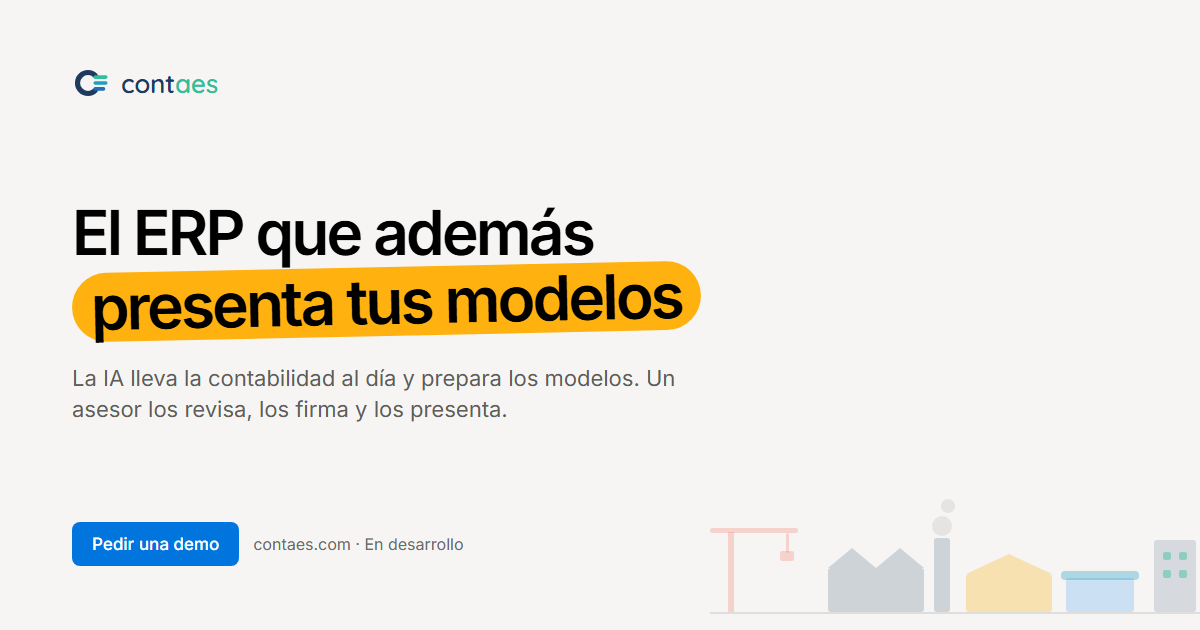
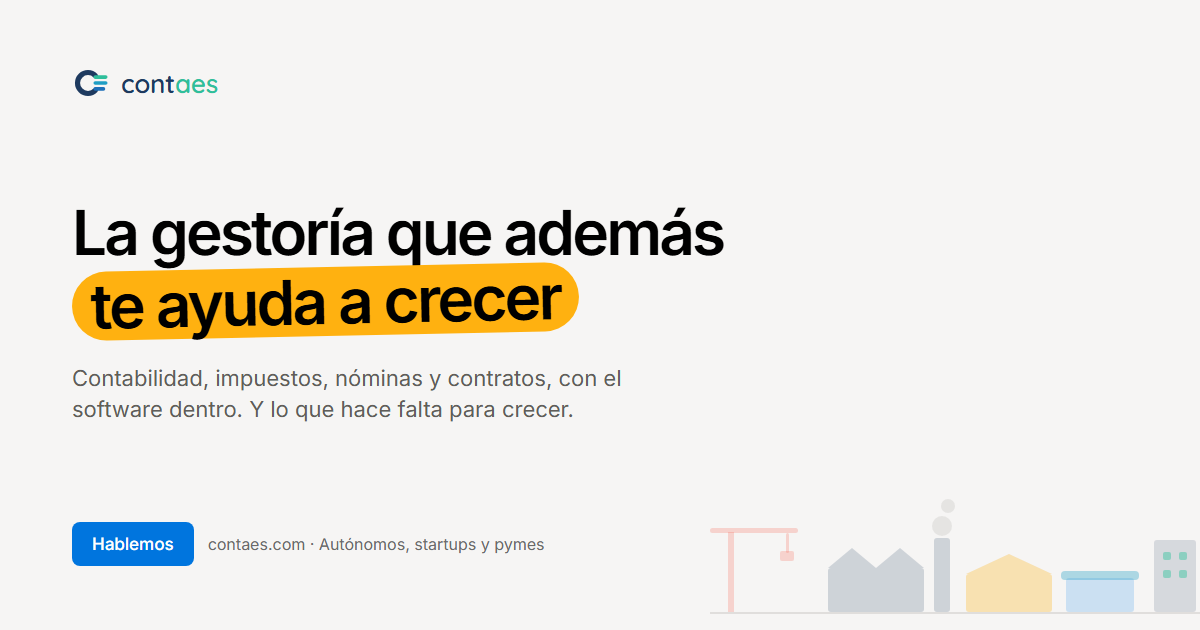
La imagen que se ve al compartir un enlace decia lo de antes
assets/og.png seguia con "El ERP que ademas presenta tus modelos" y con
"En desarrollo" en el pie. Es lo primero que ve cualquiera cuando alguien
comparte un enlace del sitio en WhatsApp, en LinkedIn o donde sea, y
llevaba semanas contradiciendo a la propia web.

Regenerada desde scripts/og-template.html, que esta en el repositorio
justamente para esto: un fichero que produce un artefacto de produccion
no puede vivir fuera del control de versiones.

Changed region(s): [[0.0617, 0.3317, 0.6167, 0.5429], [0.0617, 0.573, 0.555, 0.6635], [0.0617, 0.8143, 0.4625, 0.9048]]

diff --git a/scripts/og-template.html b/scripts/og-template.html
@@ -43,12 +43,12 @@
   <span>cont<i>aes</i></span>
 </div>
 
-<h1>El ERP que adem&aacute;s<br><span class="resalte">presenta tus modelos</span></h1>
-<p>La IA lleva la contabilidad al d&iacute;a y prepara los modelos. Un asesor los revisa, los firma y los presenta.</p>
+<h1>La gestor&iacute;a que adem&aacute;s<br><span class="resalte">te ayuda a crecer</span></h1>
+<p>Contabilidad, impuestos, n&oacute;minas y contratos, con el software dentro. Y lo que hace falta para crecer.</p>
 
 <div class="pie">
-  <span class="cta">Pedir una demo</span>
-  <span class="nota">contaes.com &middot; En desarrollo</span>
+  <span class="cta">Hablemos</span>
+  <span class="nota">contaes.com &middot; Aut&oacute;nomos, startups y pymes</span>
 </div>
 
 <svg class="escena" viewBox="0 0 520 150" aria-hidden="true">
